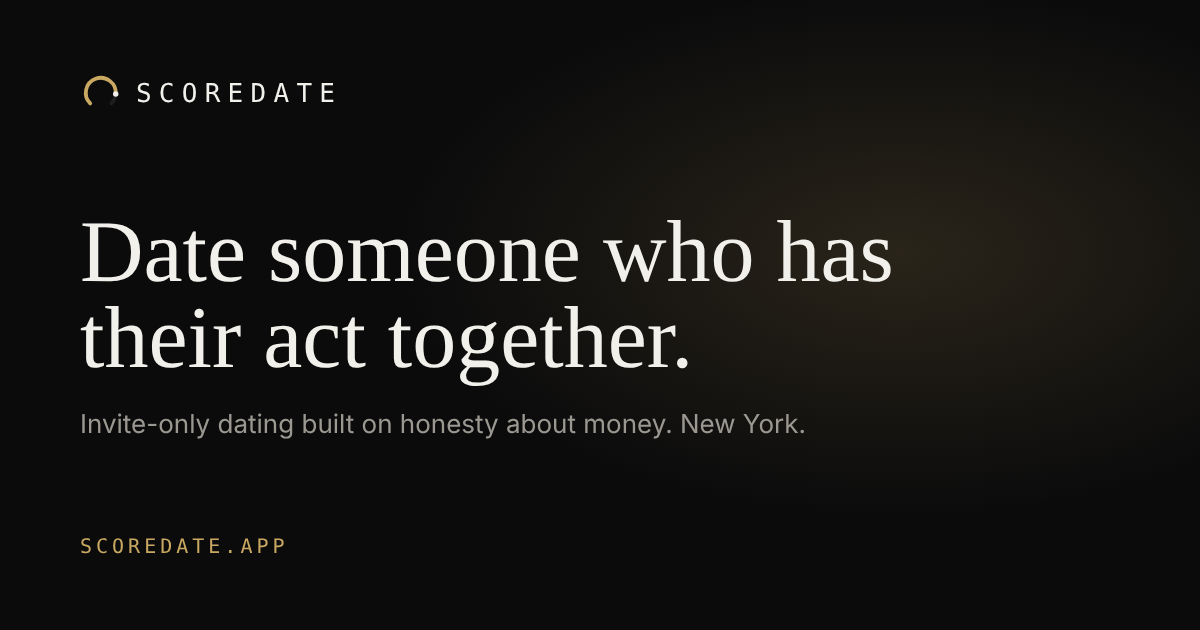
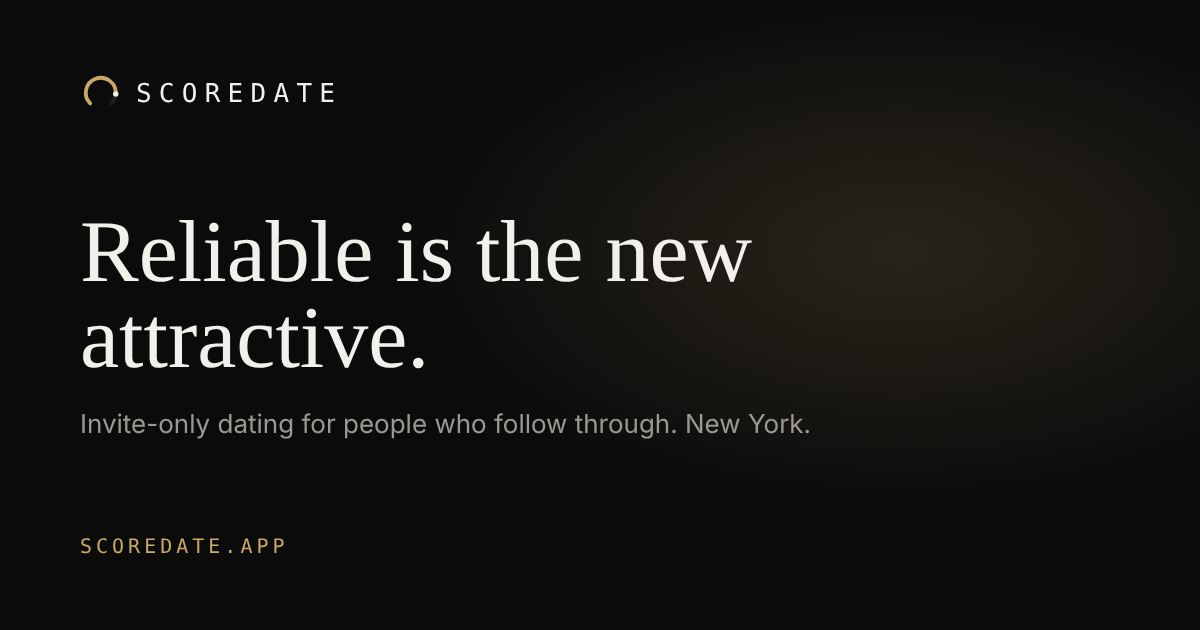
Rebrand in-app copy and emails around follow-through; new share image; mode-neutral credit wording in waitlist and invite emails
Claude-Session: https://claude.ai/code/session_01Vu3458m4bawyGcqmoHmNaz

Changed region(s): [[0.0617, 0.3317, 0.74, 0.4524], [0.0617, 0.4825, 0.5858, 0.6333], [0.2467, 0.6635, 0.6783, 0.6937]]

diff --git a/lib/emails.ts b/lib/emails.ts
@@ -135,7 +135,7 @@ export const templates = {
               { p: `${hi(d.first_name)} thanks for signing up. ScoreDate sends invites in drops every two weeks, and we'll email you the moment yours is ready.` },
               ...share,
               { facts: [['Area', d.place], ...(d.position ? [['Your spot', `#${d.position.toLocaleString('en-US')}`] as [string, string]] : []), ['Age', '25 and older']] },
-              { note: 'Verification uses a soft credit pull. It never affects your score, and only your band (never the number) is shown to members.' },
+              { note: 'Every member verifies their ID and a live selfie. You’ll also share your credit band: a range, never the number, and every band is welcome.' },
             ]
           : [
               { p: `${hi(d.first_name)} thanks for signing up. ScoreDate is opening in New York City first and expanding area by area. You're on the list for ${d.place}, and we'll email you as soon as invites go out there.` },
@@ -164,7 +164,7 @@ export const templates = {
     heading: "You're in.",
     kind: 'transactional',
     blocks: [
-      { p: d.inviter ? `${hi(d.first_name)} ${d.inviter} thinks you belong on ScoreDate, the invite-only dating app where every member has verified their identity and their credit band.` : `${hi(d.first_name)} your spot in this New York drop is ready. Here is your personal invite code.` },
+      { p: d.inviter ? `${hi(d.first_name)} ${d.inviter} thinks you belong on ScoreDate, invite-only dating for grown-ups who follow through. Every member is ID-verified, and matches are fewer and better.` : `${hi(d.first_name)} your spot in this New York drop is ready. Here is your personal invite code.` },
       { code: d.code, caption: `Good for ${d.days} days · one use` },
       { button: { label: 'Accept your invite', url: `${SITE_URL}/join?code=${encodeURIComponent(d.code)}` } },
       { p: 'Joining takes about ten minutes: the basics, a quick ID and selfie check, your credit band, a short money-values quiz and your photos.' },
@@ -201,10 +201,10 @@ export const templates = {
     subject: 'You’re invited to ScoreDate',
     preheader: 'Your invite is ready. Tap to accept.',
     eyebrow: 'Invitation',
-    heading: 'Someone thinks you have your act together.',
+    heading: 'Someone thinks you follow through.',
     kind: 'transactional',
     blocks: [
-      { p: 'You’ve been invited to ScoreDate, the invite-only dating app where every member has verified their identity and credit band.' },
+      { p: 'You’ve been invited to ScoreDate, invite-only dating for grown-ups who are serious about building a life. Every member is ID-verified, and matches are fewer and better.' },
       { button: { label: 'Accept your invite', url: d.url } },
       { note: 'This link works once. If it expires, reply and we’ll send a new one.' },
     ],
@@ -256,10 +256,10 @@ export const templates = {
     heading: 'Welcome in.',
     kind: 'transactional',
     blocks: [
-      { p: `${hi(d.first_name)} you're verified and your profile is live. Every night at ${dropTimeLabel()} ET you'll get your Daily Drop: ${d.drop_size} people picked for shared money values and compatible bands.` },
+      { p: `${hi(d.first_name)} you're verified and your profile is live. Every night at ${dropTimeLabel()} ET you'll get your Daily Drop: ${d.drop_size} people picked for shared values and what you’re both looking for.` },
       { facts: [['Plan', d.plan], ['Daily Drop', `${d.drop_size} a night at ${dropTimeLabel()} ET`], ['Status', 'Active']] },
       { button: { label: 'Open ScoreDate', url: `${SITE_URL}/app` } },
-      { p: 'Two house rules: be honest, and be kind. You can pause or mark yourself Taken any time from settings, and your profile hides right away.' },
+      { p: 'Three house rules: be honest, be kind, and follow through. You can pause or mark yourself Taken any time from settings, and your profile hides right away.' },
     ],
   }) satisfies Email,
 

diff --git a/app/onboarding/credit/page.tsx b/app/onboarding/credit/page.tsx
@@ -41,7 +41,7 @@ export default async function Credit({ searchParams }: { searchParams: Promise<{
         {updating ? <a href="/app/settings#band" className="pill-link" style={{ alignSelf: 'flex-start' }}>← Settings</a> : <Steps at={3} />}
         {updating && <input type="hidden" name="update" value="1" />}
         <h1 className="serif" style={{ fontSize: 38 }}>{updating ? 'Update your credit band' : 'Share your credit band'}</h1>
-        <p className="muted" style={{ margin: 0, lineHeight: 1.55 }}>Check your score on a free service below, or in your bank or card app. Checking it there doesn&apos;t affect your credit. Then pick the band it falls in. Members see your band, never the number.</p>
+        <p className="muted" style={{ margin: 0, lineHeight: 1.55 }}>Check your score on a free service below, or in your bank or card app. Checking it there doesn&apos;t affect your credit. Then pick the band it falls in. Members see your band, never the number. It’s one signal among many, and every band is welcome.</p>
         <CreditPartners placement="onboarding" />
         <div role="radiogroup" aria-label="Your band" className="stack">
           {(Object.keys(BANDS) as Band[]).map((k) => (

diff --git a/app/layout.tsx b/app/layout.tsx
@@ -11,8 +11,8 @@ import { activeSeason, seasonsWith, type SeasonKey } from '@/lib/seasons';
 
 export const metadata: Metadata = {
   metadataBase: new URL(process.env.NEXT_PUBLIC_SITE_URL || 'https://www.scoredate.app'),
-  openGraph: { type: 'website', siteName: 'ScoreDate', images: [{ url: '/brand/score-share-card-dark.png', width: 1200, height: 630, alt: 'ScoreDate: Reliable is the new attractive.' }] },
-  twitter: { card: 'summary_large_image', images: ['/brand/score-share-card-dark.png'] },
+  openGraph: { type: 'website', siteName: 'ScoreDate', images: [{ url: '/brand/score-share-card-dark.png?v=2', width: 1200, height: 630, alt: 'ScoreDate: Reliable is the new attractive.' }] },
+  twitter: { card: 'summary_large_image', images: ['/brand/score-share-card-dark.png?v=2'] },
   title: 'ScoreDate — Reliable is the new attractive',
   description: 'Invite-only dating in New York for people who follow through. Every member is verified. Fewer, better matches that lead to real dates.',
   applicationName: 'ScoreDate',

diff --git a/app/onboarding/quiz/page.tsx b/app/onboarding/quiz/page.tsx
@@ -13,7 +13,7 @@ export default async function Quiz({ searchParams }: { searchParams: Promise<{ e
       <Steps at={4} />
       <span className="eyebrow">Money values</span>
       <h1 className="serif" style={{ fontSize: 38 }}>How you think about money</h1>
-      <p className="muted" style={{ margin: 0 }}>Each answer shows on your profile as a chip. No wrong answers.</p>
+      <p className="muted" style={{ margin: 0 }}>Each answer shows on your profile as a chip. No wrong answers: it’s about finding someone who plans the way you do.</p>
       {MONEY_QUESTIONS.map((q) => (
         <fieldset key={q.id} className="stack" style={{ border: 0, padding: 0, margin: 0, gap: 8 }}>
           <legend style={{ fontWeight: 600, marginBottom: 8 }}>{q.q}</legend>

diff --git a/app/manifest.ts b/app/manifest.ts
@@ -4,7 +4,7 @@ export default function manifest(): MetadataRoute.Manifest {
   return {
     name: 'ScoreDate',
     short_name: 'ScoreDate',
-    description: 'Invite-only dating built on honesty about money. Every member verifies their identity.',
+    description: 'Invite-only dating for people who follow through. Every member is verified. Fewer, better matches.',
     start_url: '/app',
     scope: '/',
     display: 'standalone',
